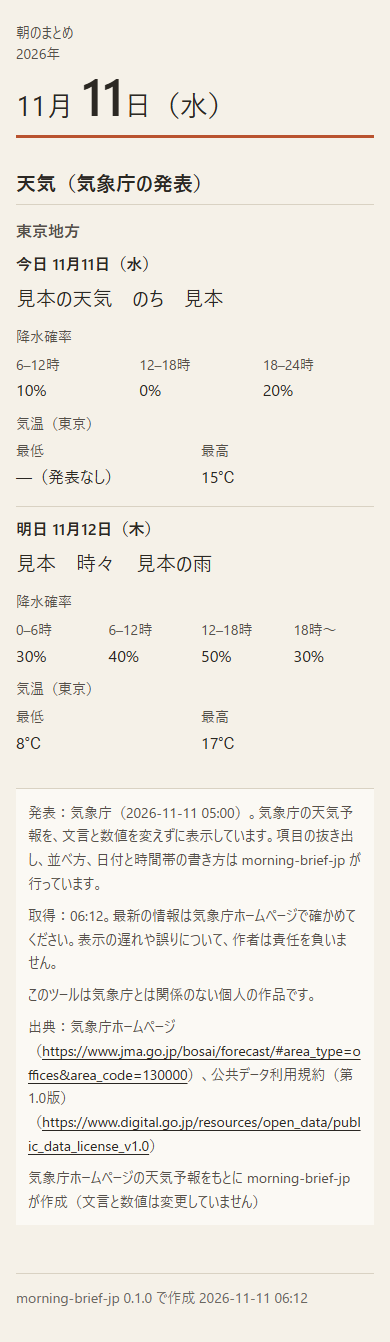
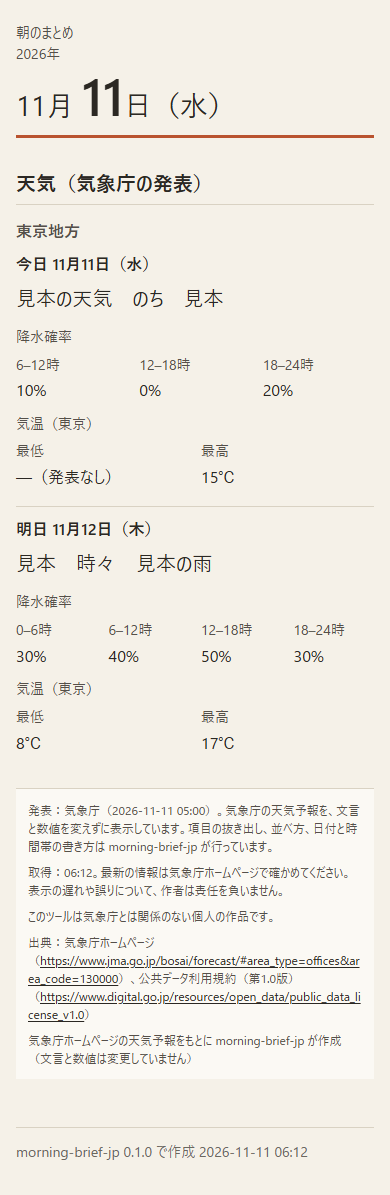
Weather wording: stale-report line, failure cause, empty-day line, 12px notes, 18-24 last slot
- Stale cache: full-width line under the heading with the report time
  (second sentence only when the report is not from today)
- Failure screen: one cause line (area code / connection / unexpected response),
  not for the daily-limit case
- One line under a day heading when all of its items are empty
- Notes at 12px, line-height 1.5, 8px between paragraphs
- Last precipitation slot gets +6h only when all previous slots are 6h apart
- Tests for each; retake README screenshots

diff --git a/src/style.css b/src/style.css
@@ -12,6 +12,7 @@
 
   --font-sans: "Hiragino Sans", "Hiragino Kaku Gothic ProN", "Yu Gothic UI",
                "Yu Gothic", "Noto Sans JP", Meiryo, system-ui, sans-serif;
+  --fs-xs: 0.75rem;  /* 12px 天気の注記だけ */
   --fs-sm: 0.875rem;
   --fs-md: 1rem;
   --fs-lg: 1.25rem;
@@ -101,6 +102,7 @@ section { min-width: 0; }
 .mark { font-size: var(--fs-sm); color: var(--accent-text); border-left: var(--rule-strong); padding-left: var(--sp-2); }
 .alert { color: var(--accent-text); border-left: var(--rule-strong); padding-left: var(--sp-3); font-size: var(--fs-md); }
 .alert p + p { margin-top: var(--sp-1); }
+.stale-note { margin-bottom: var(--sp-4); }
 
 /* 天気 */
 .weather h3 { font-size: var(--fs-md); color: var(--dim); margin-bottom: var(--sp-3); }
@@ -108,14 +110,15 @@ section { min-width: 0; }
 .day { min-width: 0; padding: var(--sp-3) 0 var(--sp-4); border-top: var(--rule); }
 .day:first-child { border-top: 0; padding-top: 0; }
 .day h4 { font-size: var(--fs-md); margin-bottom: var(--sp-2); font-variant-numeric: tabular-nums; }
+.day-empty { color: var(--dim); margin-bottom: var(--sp-2); }
 .wx { font-size: var(--fs-lg); line-height: 1.5; margin-bottom: var(--sp-3); }
 .label { font-size: var(--fs-sm); color: var(--dim); margin: var(--sp-2) 0 var(--sp-1); }
 .grid { display: grid; grid-template-columns: repeat(auto-fit, minmax(4.5rem, 1fr)); gap: var(--sp-3); }
 .grid > div { min-width: 0; }
 .grid dt { font-size: var(--fs-sm); color: var(--dim); font-variant-numeric: tabular-nums; }
 .grid dd { font-size: var(--fs-md); }
-.notes { margin-top: var(--sp-4); padding: var(--sp-3) var(--sp-3); background: var(--surface); border-top: var(--rule); font-size: var(--fs-sm); color: var(--dim); }
-.notes p + p { margin-top: var(--sp-2); }
+.notes { margin-top: var(--sp-4); padding: var(--sp-3) var(--sp-3); background: var(--surface); border-top: var(--rule); font-size: var(--fs-xs); line-height: 1.5; color: var(--dim); }
+.notes p + p { margin-top: var(--sp-2); } /* 段落の間 8px */
 
 /* 予定 */
 .events li { display: flex; gap: var(--sp-3); align-items: baseline; min-height: var(--tap-min); padding: var(--sp-2) 0; border-bottom: var(--rule); }
